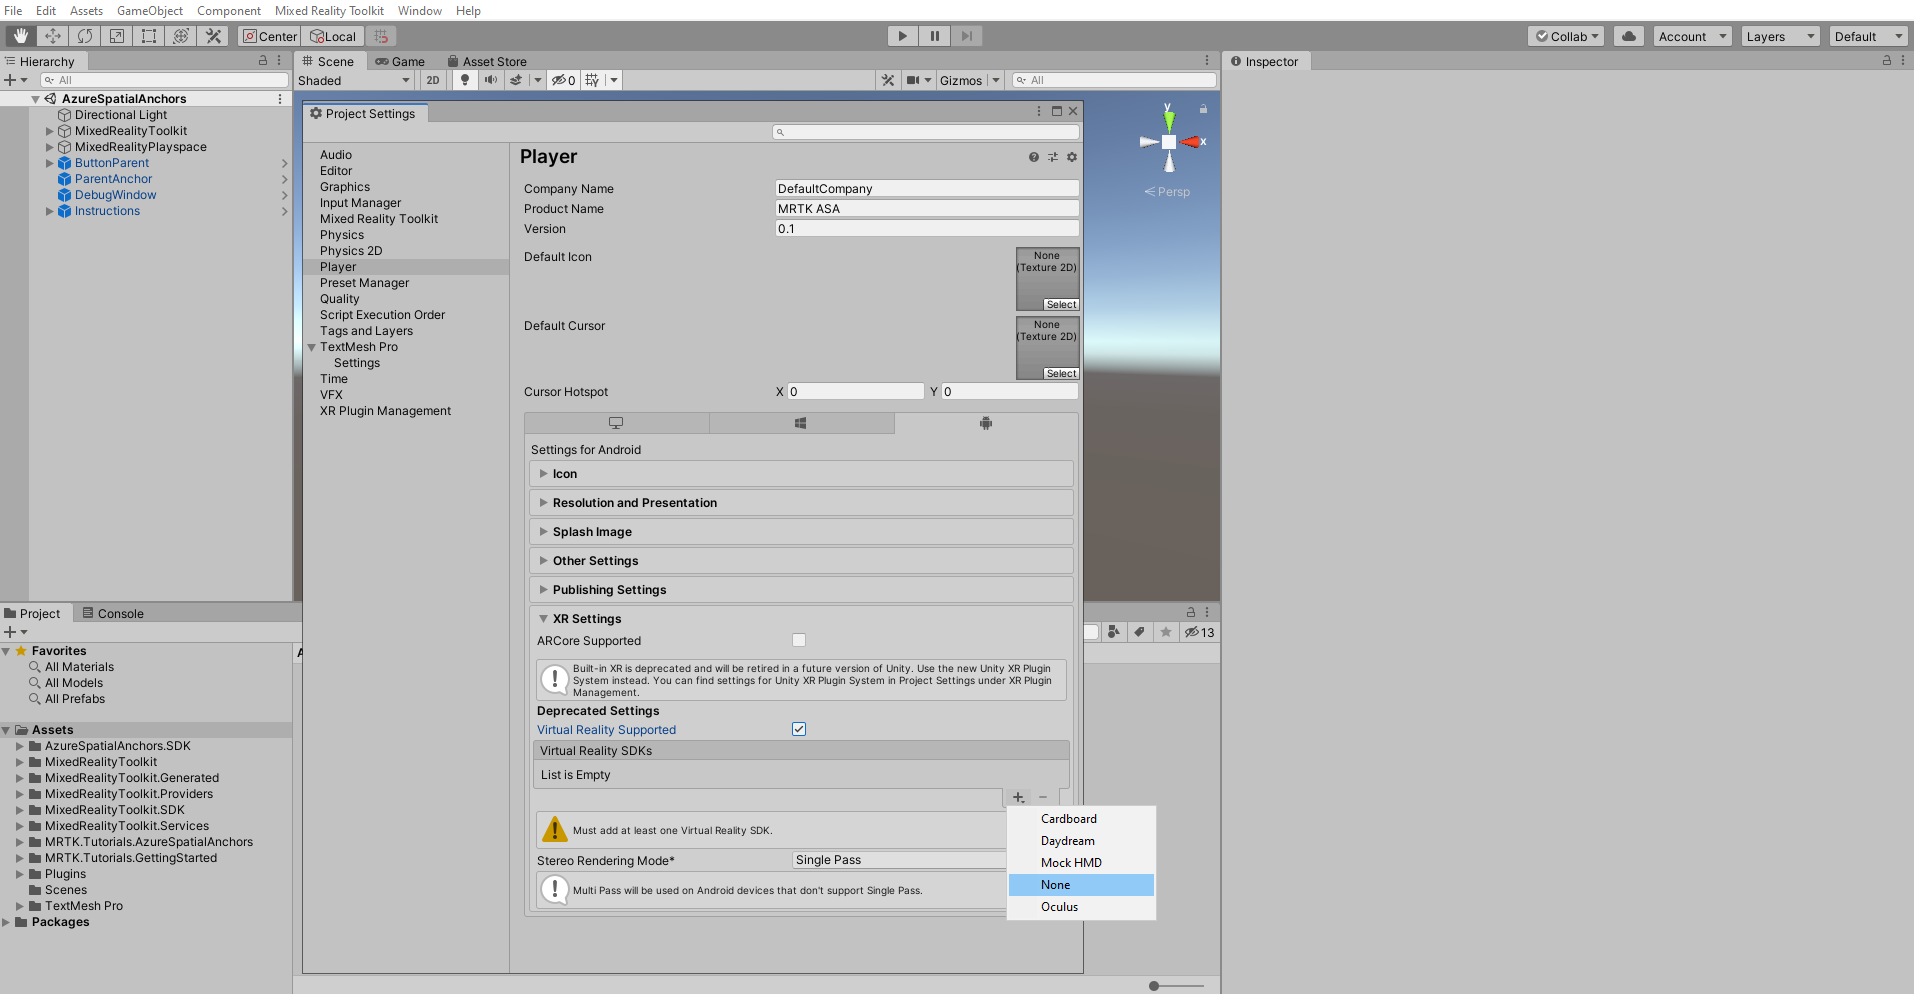
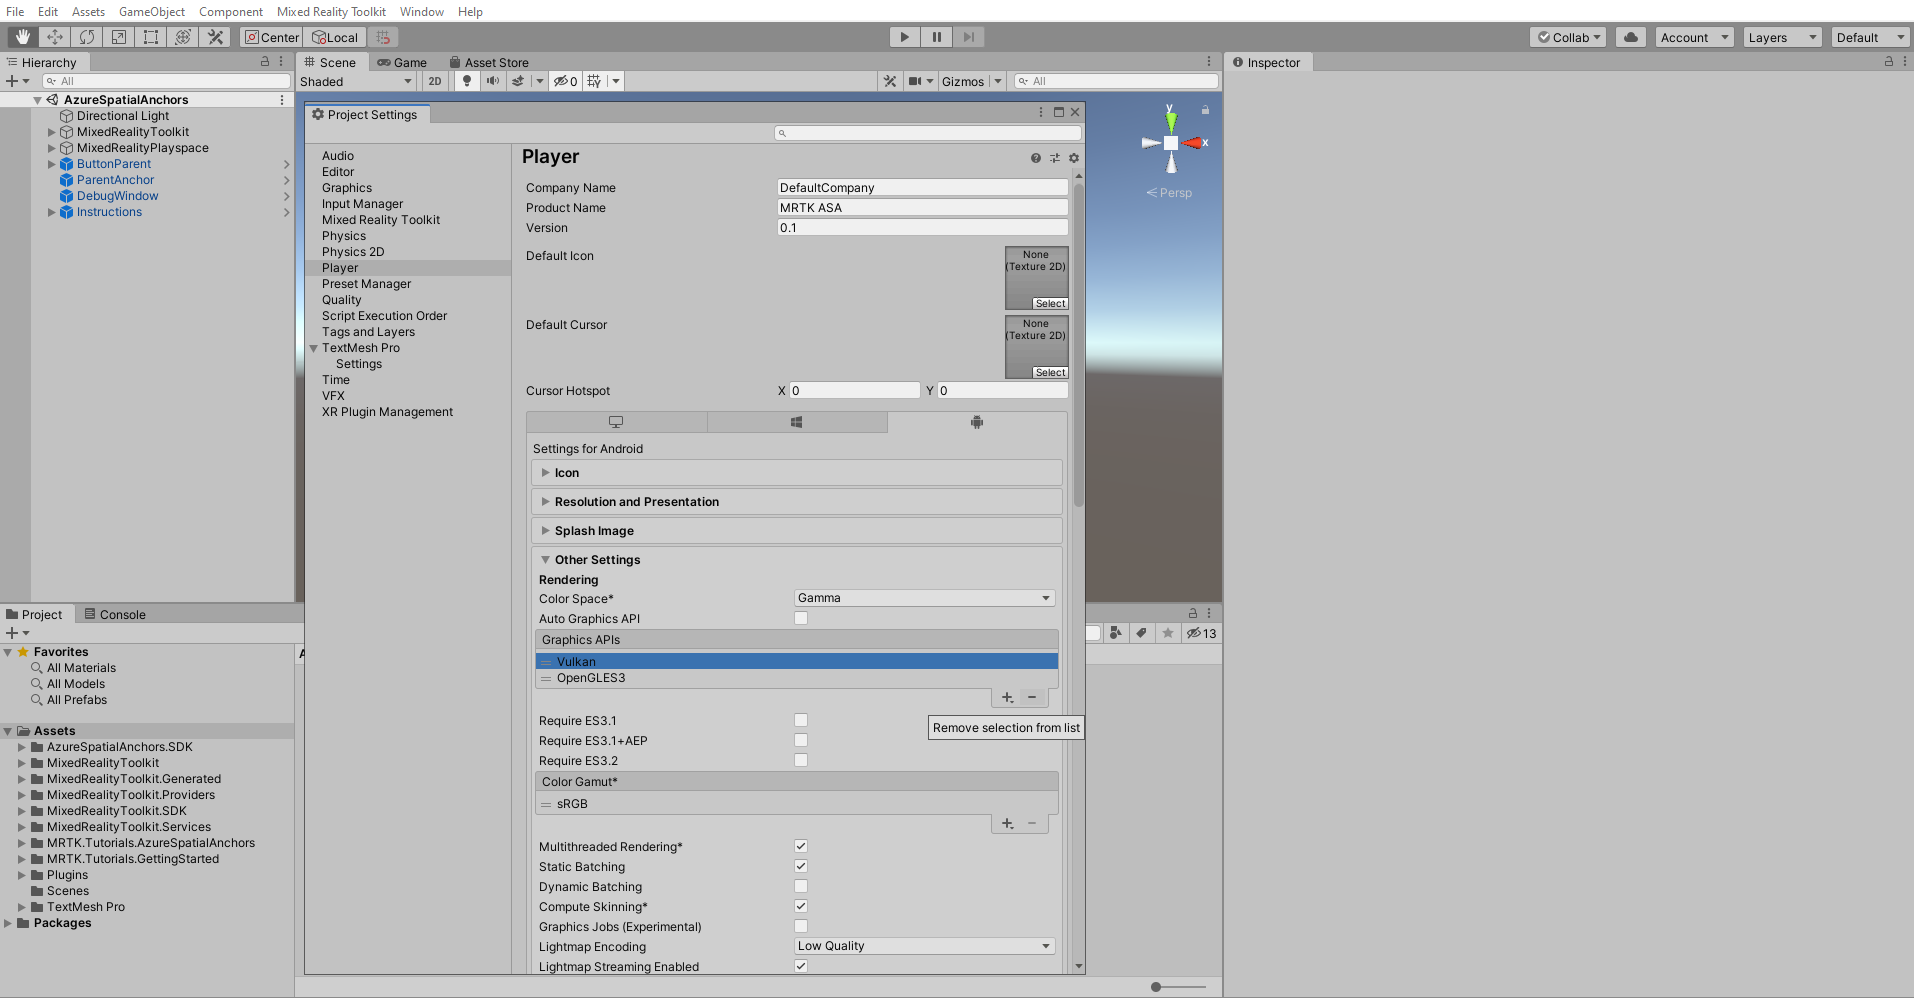
Added Unity configuration images and updated lesson according to it.

diff --git a/mixed-reality-docs/mrlearning-asa-ch4.md b/mixed-reality-docs/mrlearning-asa-ch4.md
@@ -19,8 +19,7 @@ In this tutorial, you will learn how to build the existing project to Android an
 * Learn how to build existing project to iOS device using Unity's AR Foundation and ARKit XR Plugin.
 
 > [!NOTE]
-
-> To complete this tutorial, make sure you have completed Azure Spatial Anchors Tutorials -> [Getting started with Azure Spatial Anchors](mrlearning-asa-ch1.md)
+> To complete this tutorial, make sure you have completed Azure Spatial Anchors Tutorials -> [Getting started with Azure Spatial Anchors](mrlearning-asa-ch1.md).
 
 ## Adding inbuilt Unity packages
 
@@ -32,7 +31,7 @@ Make sure you install right version of unity packages as listed below:
 
 - **ARCore XR plugin 2.2.0 preview 2**
 
-- ##### ARKit XR plugin 2.1.1
+- **ARKit XR plugin 2.1.1**
 
 > [!NOTE]
 > If you are developing this project for Android device then no need to install ARKit XR plugin 2.1.1 package. Similarly, If you are developing this project for iOS device then no need to install ARCore XR plugin 2.1.1.
@@ -83,11 +82,11 @@ To build this application to Android device, click on **File** at the top of the
 
 ![mrlearning-asa](images/mrlearning-asa/tutorial4-section3-step1-1.png)
 
-In player settings, expand other setting and select **Vulkan** and remove it by selecting "-" Symbol.
+Close **Build settings** and select Mixed **Reality Toolkit** > **Utilities** > **Configure Unity Project** and click on **apply** to configure unity project for android platform.
 
 ![mrlearning-asa](images/mrlearning-asa/tutorial4-section3-step1-2.png)
 
-To make changes to Android platform build settings, click on **Player settings** and expand **XR settings**, select **Virtual Reality Support**  and click "+" Symbol to add **None** under the default SDK section. 
+In player settings, expand other setting and select **Vulkan** and remove it by selecting "-" Symbol.
 
 ![mrlearning-asa](images/mrlearning-asa/tutorial4-section3-step1-3.png)
 
@@ -95,13 +94,22 @@ Close player settings, select your device in **Run Device** and click **Build An
 
 ![mrlearning-asa](images/mrlearning-asa/tutorial4-section3-step1-4.png)
 
+[!NOTE]
+If you get any error related to Android SDK,NDK and JDK modules, please consider opening Unity Hub and installing Android build support with associated SDK, NDK and JDK modules.
+
 ## Build application to iOS Device
 
-To build this application to iOS device, click on **File** at the top of the window and select **Build settings**. A new window will appear on screen, then select **iOS** and click on **switch platform**. Once the platform switching is complete, click on **Build** to build the iOS XCode project.
+To build this application to iOS device, click on **File** at the top of the window and select **Build settings**. A new window will appear on screen, then select **iOS** and click on **switch platform**. 
 
-![mrlearning-asa](images/mrlearning-asa/tutorial4-section4-step1-1.png)
+![mrlearning-asa](images/mrlearning-asa/tutorial4-section4-step1-2.png)
 
-Follow this guide to learn, how to build this project in to your [iOS device](https://docs.microsoft.com/en-us/azure/spatial-anchors/quickstarts/get-started-unity-ios#export-the-xcode-project)
+Close **Build settings** and select Mixed **Reality Toolkit** > **Utilities** > **Configure Unity Project** and click on **apply** to configure unity project for iOS platform.
+
+![mrlearning-asa](images/mrlearning-asa/tutorial4-section4-step1-2.png)
+
+To build the iOS XCode project, go to Build settings and click on **Build**. 
+
+Follow this guide to learn, how to build this project in to your [iOS device](https://docs.microsoft.com/en-us/azure/spatial-anchors/quickstarts/get-started-unity-ios#export-the-xcode-project).
 
 ## Congratulations
 
